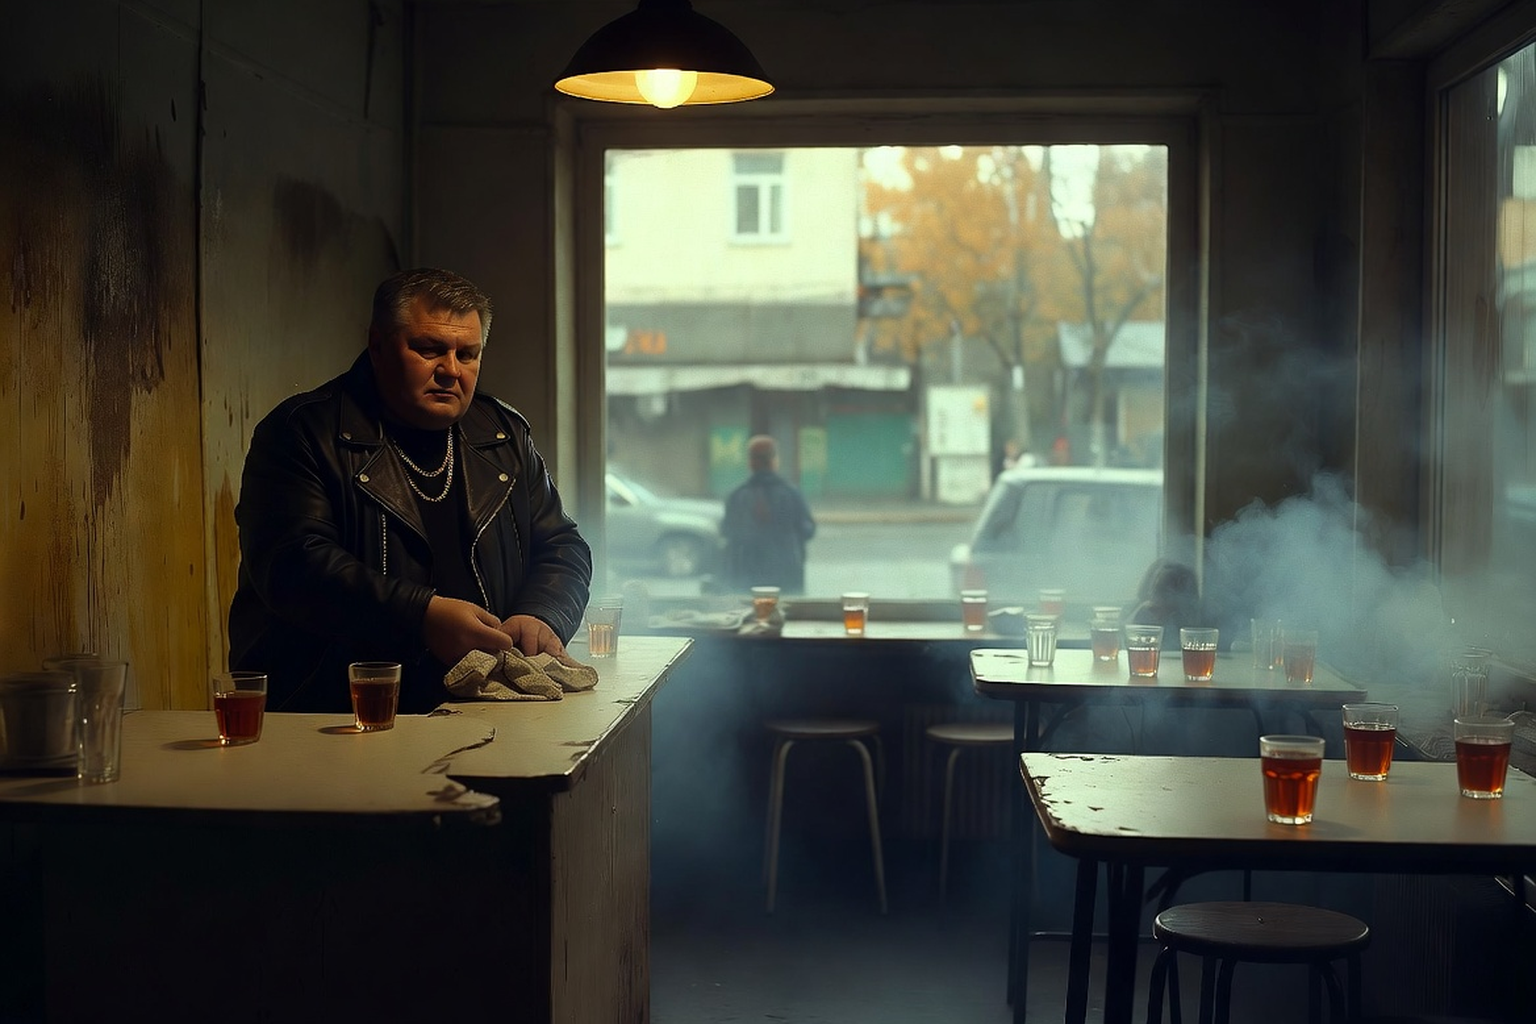
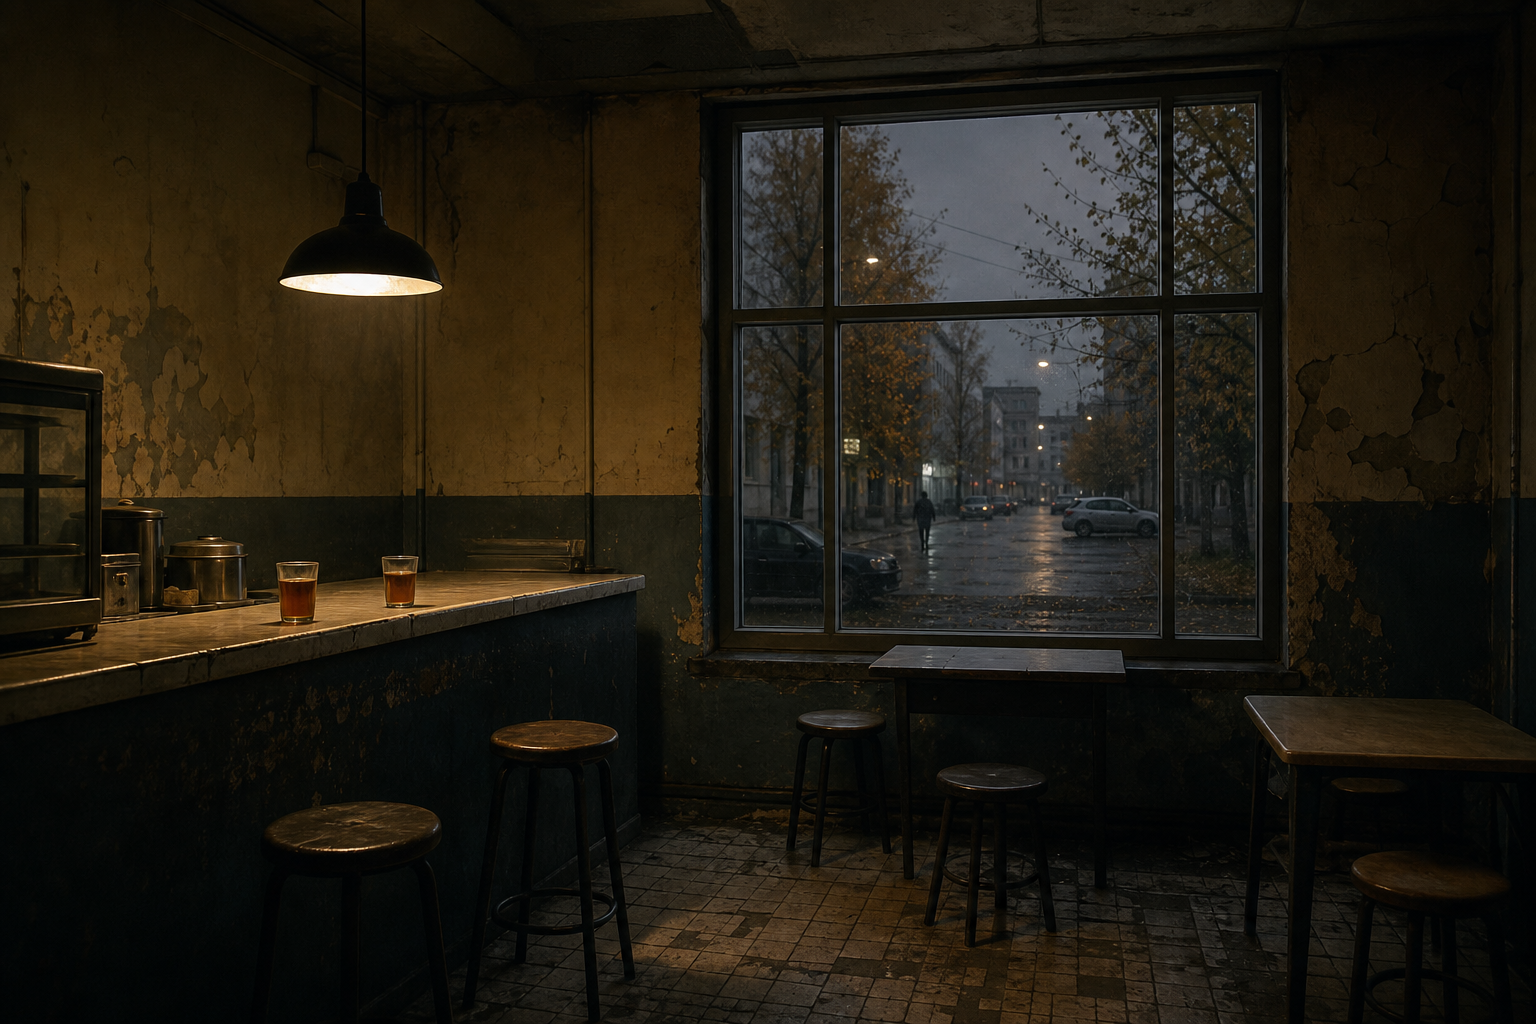
boris standing

diff --git a/scripts/prepare_cafe_boris_overlay.py b/scripts/prepare_cafe_boris_overlay.py
@@ -1,0 +1,120 @@
+#!/usr/bin/env python3
+"""Key grey background from Boris cutout and place on 1536×1024 RGBA canvas."""
+
+from __future__ import annotations
+
+import argparse
+import sys
+from pathlib import Path
+
+try:
+    import numpy as np
+    from PIL import Image
+except ImportError:
+    print("Requires Pillow and numpy: pip install Pillow numpy", file=sys.stderr)
+    sys.exit(1)
+
+CANVAS_SIZE = (1536, 1024)
+BG_RGB = (43, 43, 43)
+DEFAULT_TOLERANCE = 28
+
+
+def hard_key_rgba(img: Image.Image, bg_rgb: tuple[int, int, int], tolerance: int) -> Image.Image:
+    rgb = img.convert("RGB")
+    arr = np.array(rgb, dtype=np.float32)
+    r, g, b = arr[..., 0], arr[..., 1], arr[..., 2]
+    bg_r, bg_g, bg_b = bg_rgb
+    dist = np.sqrt((r - bg_r) ** 2 + (g - bg_g) ** 2 + (b - bg_b) ** 2)
+    alpha = np.where(dist <= tolerance, 0, 255).astype(np.uint8)
+    rgba = np.dstack([arr.astype(np.uint8), alpha])
+    return Image.fromarray(rgba, "RGBA")
+
+
+def opaque_bbox(img: Image.Image) -> tuple[int, int, int, int]:
+    alpha = np.array(img.split()[-1])
+    ys, xs = np.where(alpha > 0)
+    if len(xs) == 0:
+        raise ValueError("No opaque pixels after background key")
+    return int(xs.min()), int(ys.min()), int(xs.max()) + 1, int(ys.max()) + 1
+
+
+def place_on_canvas(
+    cutout: Image.Image,
+    x1: float,
+    y1: float,
+    x2: float,
+    y2: float,
+    canvas_size: tuple[int, int] = CANVAS_SIZE,
+    hide_below_y: float | None = None,
+) -> Image.Image:
+    canvas_w, canvas_h = canvas_size
+    target_x1 = int(round(x1 * canvas_w))
+    target_y1 = int(round(y1 * canvas_h))
+    target_x2 = int(round(x2 * canvas_w))
+    target_y2 = int(round(y2 * canvas_h))
+    target_w = max(1, target_x2 - target_x1)
+    target_h = max(1, target_y2 - target_y1)
+
+    bbox = opaque_bbox(cutout)
+    subject = cutout.crop(bbox)
+    sw, sh = subject.size
+    scale = min(target_w / sw, target_h / sh)
+    new_w = max(1, int(round(sw * scale)))
+    new_h = max(1, int(round(sh * scale)))
+    subject = subject.resize((new_w, new_h), Image.Resampling.LANCZOS)
+
+    # Re-hard-key after resize so resized edge pixels stay opaque, not grey
+    subject_arr = np.array(subject)
+    subject_arr[..., 3] = np.where(subject_arr[..., 3] > 127, 255, 0).astype(np.uint8)
+    subject = Image.fromarray(subject_arr, "RGBA")
+
+    paste_x = target_x1 + (target_w - new_w) // 2
+    paste_y = target_y2 - new_h
+
+    canvas = Image.new("RGBA", canvas_size, (0, 0, 0, 0))
+    canvas.paste(subject, (paste_x, paste_y), subject)
+
+    if hide_below_y is not None:
+        clip_y = int(round(hide_below_y * canvas_h))
+        alpha = np.array(canvas.split()[-1])
+        alpha[clip_y:, :] = 0
+        canvas.putalpha(Image.fromarray(alpha))
+
+    return canvas
+
+
+def main() -> None:
+    parser = argparse.ArgumentParser(description=__doc__)
+    parser.add_argument("source", type=Path, help="Generated Boris PNG on #2B2B2B background")
+    parser.add_argument("dest", type=Path, help="Output path, e.g. Conscript/img/cafe-boris.png")
+    parser.add_argument("--tolerance", type=int, default=DEFAULT_TOLERANCE)
+    parser.add_argument("--x1", type=float, default=0.154)
+    parser.add_argument("--y1", type=float, default=0.20)
+    parser.add_argument("--x2", type=float, default=0.393)
+    parser.add_argument("--y2", type=float, default=0.92)
+    parser.add_argument(
+        "--hide-below-y",
+        type=float,
+        default=None,
+        help="Zero alpha at and below this normalized canvas Y (hides legs behind counter)",
+    )
+    args = parser.parse_args()
+
+    if not args.source.is_file():
+        print(f"Source not found: {args.source}", file=sys.stderr)
+        sys.exit(1)
+
+    keyed = hard_key_rgba(Image.open(args.source), BG_RGB, args.tolerance)
+    out = place_on_canvas(
+        keyed, args.x1, args.y1, args.x2, args.y2, hide_below_y=args.hide_below_y
+    )
+    args.dest.parent.mkdir(parents=True, exist_ok=True)
+    out.save(args.dest, optimize=True)
+
+    alpha = np.array(out.split()[-1])
+    semi = int(np.sum((alpha > 0) & (alpha < 255)))
+    print(f"Wrote {args.dest} ({out.size[0]}x{out.size[1]}), semi-transparent pixels: {semi}")
+
+
+if __name__ == "__main__":
+    main()

diff --git a/Conscript/Game.cs b/Conscript/Game.cs
@@ -39,6 +39,7 @@ public sealed class Game : IGame
     private Texture2D _forestStreamBackground;
     private Texture2D _storeBackground;
     private Texture2D _cafeBackground;
+    private Texture2D _cafeBorisOverlayTexture;
     private Texture2D _cafeBasementBackground;
     private Texture2D _deliveryTruckBackground;
     private Texture2D _warehouseBackground;
@@ -1096,6 +1097,7 @@ public sealed class Game : IGame
         _forestStreamBackground = EmbeddedTextureLoader.Load("forest-stream.png");
         _storeBackground        = EmbeddedTextureLoader.Load("store.png");  // dedicated store interior photo (bright fluorescent kiosk)
         _cafeBackground         = LoadTextureOrFallback("cafe.png", _storeBackground);
+        _cafeBorisOverlayTexture = EmbeddedTextureLoader.Load(CafeHotspots.BorisOverlayFile);
         _cafeBasementBackground = LoadTextureOrFallback("cafe-basement.png", _cafeBackground);
         _deliveryTruckBackground = LoadTextureOrFallback("delivery-truck-cab.png", _industrialDistrictBackground);
         _warehouseBackground = LoadTextureOrFallback("warehouse-14.png", _industrialDistrictBackground);
@@ -1158,6 +1160,7 @@ public sealed class Game : IGame
         UnloadTextureIfLoaded(ref _forestStreamBackground);
         UnloadTextureIfLoaded(ref _storeBackground);
         UnloadTextureIfLoaded(ref _cafeBackground);
+        UnloadTextureIfLoaded(ref _cafeBorisOverlayTexture);
         UnloadTextureIfLoaded(ref _cafeBasementBackground);
         UnloadTextureIfLoaded(ref _deliveryTruckBackground);
         UnloadTextureIfLoaded(ref _warehouseBackground);
@@ -9637,6 +9640,9 @@ public sealed class Game : IGame
 
         DrawSceneBackground(artX, artY, artW, artH);
 
+        if (_phase == Phase.Cafe && !_cafeBorisGone)
+            DrawCafeBorisOverlay(artX, artY, artW, artH);
+
         if (_hasTrashBagTent && GamePhase.IsOutdoorsSurvival(_phase))
             DrawTrashBagTentOverlay(artX, artY, artW, artH);
 
@@ -9880,6 +9886,16 @@ public sealed class Game : IGame
                 new Color(8, 10, 14, 210));
             Raylib.DrawTextEx(font, label, new Vector2(lx, ly), fontSize, 0.45f, Palette.TextPrimary);
         }
+    }
+
+    private void DrawCafeBorisOverlay(int artX, int artY, int artW, int artH)
+    {
+        if (_cafeBorisOverlayTexture.Id == 0)
+            return;
+
+        var dst = new Rectangle(artX, artY, artW, artH);
+        var src = new Rectangle(0, 0, _cafeBorisOverlayTexture.Width, _cafeBorisOverlayTexture.Height);
+        Raylib.DrawTexturePro(_cafeBorisOverlayTexture, src, dst, Vector2.Zero, 0f, Color.WHITE);
     }
 
     private void DrawTrashBagTentOverlay(int artX, int artY, int artW, int artH)

diff --git a/Conscript/CafeHotspots.cs b/Conscript/CafeHotspots.cs
@@ -3,9 +3,11 @@ namespace Conscript;
 /// <summary>Clickable regions on cafe.png.</summary>
 internal static class CafeHotspots
 {
-    /// <summary>Boris behind the counter — corners from area select.</summary>
-    public const float BorisX1 = 0.154f;
-    public const float BorisY1 = 0.272f;
-    public const float BorisX2 = 0.393f;
-    public const float BorisY2 = 0.687f;
+    public const string BorisOverlayFile = "cafe-boris.png";
+
+    /// <summary>Boris at the bar — character cutout only (no counter in overlay).</summary>
+    public const float BorisX1 = 0.12f;
+    public const float BorisY1 = 0.04f;
+    public const float BorisX2 = 0.36f;
+    public const float BorisY2 = 0.56f;
 }

diff --git a/Conscript/img/image-prompts.md b/Conscript/img/image-prompts.md
@@ -181,3 +181,36 @@ Cinematic photorealistic interior of a low Soviet-era café cellar basement at n
 - **notes**:
   - `Phase.CafeBasement` — Boris grants cellar hideout after warehouse betrayal; entered via **GO TO THE BASEMENT** in the café.
 
+## `cafe.png`
+
+- **asset**: `Conscript/img/cafe.png`
+- **date**: 2026-06-12
+- **model**: Composer 2.5 Fast (GenerateImage)
+- **tool**: `GenerateImage` + `scripts/install_scene_image.py`
+- **source**: `cafe-no-boris-draft.png`
+- **prompt**:
+
+```text
+Cinematic photorealistic interior of a grimy post-Soviet café at night, Ulan-Ude Siberia, early autumn noir mood. Small worn L-shaped counter on the left with two glasses of amber tea, black pendant lamp above counter, wispy steam in dim air, dirty peeling yellow-grey walls, small square tables with wooden stools, large window center showing overcast grey street with distant pedestrian and parked cars, autumn trees outside. EMPTY café — absolutely no people inside the room. Gritty film grain, deep shadows, warm lamp glow on counter. Wide landscape 3:2 composition, eye-level view. No text, no logos.
+```
+
+- **notes**:
+  - `Phase.Cafe` background only; Boris is a separate `cafe-boris.png` overlay toggled by `CafeBorisGone`.
+
+## `cafe-boris.png`
+
+- **asset**: `Conscript/img/cafe-boris.png`
+- **date**: 2026-05-29
+- **model**: Composer 2.5 Fast (GenerateImage)
+- **tool**: `GenerateImage` + `scripts/prepare_cafe_boris_overlay.py` (hard `#2B2B2B` key, binary alpha)
+- **source**: `cafe-boris-standing-nocounter-draft.png`
+- **prompt**:
+
+```text
+Cinematic photorealistic FULL-LENGTH standing portrait of a wiry middle-aged Slavic man (Boris) in black leather biker jacket with silver chain, black shirt, dark jeans, black boots, receding grey hair, stern expression. Entire body visible head to feet, standing upright holding a white cloth, warm cinematic side lighting, post-Soviet Siberian noir style. NO counter, NO furniture — character only on solid uniform dark grey background #2B2B2B. No text, no logos.
+```
+
+- **notes**:
+  - RGBA overlay drawn on top of `cafe.png` when Boris is present; hidden when player escapes the basement (`CafeBorisGone`).
+  - Character cutout only — café counter comes from `cafe.png`. Legs clipped at bar height so they sit behind the background counter.
+

diff --git a/.cursor/skills/generate-images/reference.md b/.cursor/skills/generate-images/reference.md
@@ -18,7 +18,8 @@
 | `apartment-outside.png` | Outside (courtyard) | `OutsideNarrative` |
 | `town.png` | Town | `TownNarrative` |
 | `industrial.png` | Industrial District | `IndustrialDistrictNarrative` |
-| `cafe.png` | Кафе (from industrial) | `CafeNarrative` |
+| `cafe.png` | Кафé (empty interior) | `CafeNarrative` |
+| `cafe-boris.png` | Boris overlay on café (toggled) | `CafeHotspots.BorisOverlayFile` |
 | `cafe-basement.png` | Кафе — Basement | `CafeBasementNarrative` |
 | `cafe-owner-portrait.png` | Boris dialog portrait (3:4) | `CafeOwnerDialog` |
 | `commercial.png` | Commercial District | `CommercialDistrictNarrative` |
